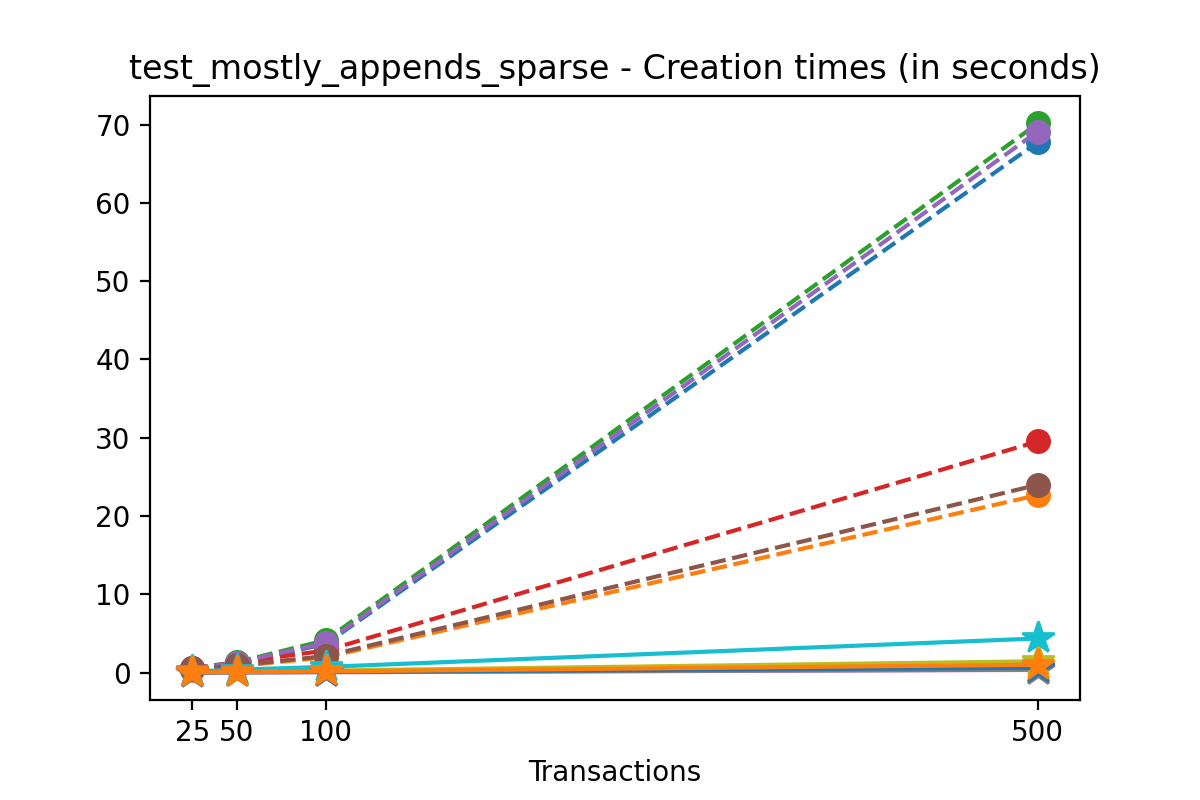
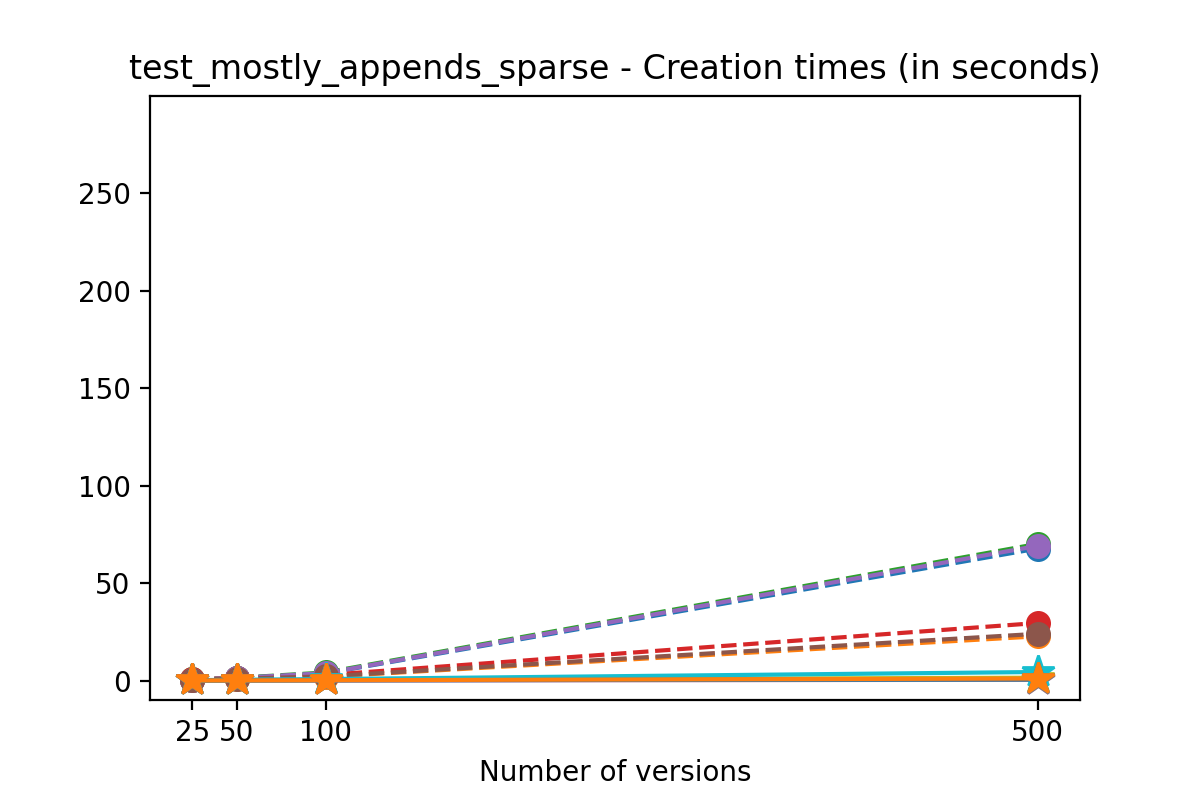
Changed scale in some of the figures to make them comparable. Small edits.

diff --git a/posts/2020/08/versioned-hdf5-performance.md b/posts/2020/08/versioned-hdf5-performance.md
@@ -65,7 +65,7 @@ If we look at the time spent creating the files for each example, comparing chun
 
 ![legend](/images/versioned-hdf5-performance/legend.png) 
 
-Now, we can look at the time required to stage a new version in the file, that is, to add a new transaction. The graphs below show, for each fixed number of transactions, the time required to add new versions as the file is created.
+Now, we can look at the time required to stage a new version in the file, that is, to add a new transaction. The graphs below show, for each fixed number of transactions, the time required to add new versions as the file is created. Note that the scales vary for each test.
 
 ![test1](/images/versioned-hdf5-performance/write_times_test1.png) | ![test2](/images/versioned-hdf5-performance/write_times_test2.png)
 :-------------------------:|:-------------------------:
@@ -73,13 +73,13 @@ Now, we can look at the time required to stage a new version in the file, that i
 
 It is clear that as the number of versions stored in the file increases, the times required to create versioned HDF5 files increases significantly when compared to regular HDF5 files. This is expected, since all the data about previous versions is stored in the same file when we keep track of the changes made to each file. In particular, in `test_mostly_appends_sparse`, where the size of the arrays stored in the file grow significantly with each new version, we can see a marked increase in the times required to stage new versions.
 
-Finally, we'll look at a two-dimensional dataset. In this case, we have chosen different chunk sizes to test, considering that larger chunk sizes increase file sizes considerably.
+Finally, we'll look at a two-dimensional dataset. In this case, we have chosen different chunk sizes to test, considering that larger chunk sizes increase file sizes considerably. 
 
 ![filesizes_test5](/images/versioned-hdf5-performance/filesizes_test5.png)
 
 ![creation_times](/images/versioned-hdf5-performance/create_test5.png)
 
-We can also look at the times required to create each new version and write it to file in the versioned and unversioned cases. This is shown in the image below.
+We can also look at the times required to create each new version and write it to file in the versioned and unversioned cases. This is shown in the image below (note the different axis scale from previous figures.)
 
 ![write_versions](/images/versioned-hdf5-performance/write_times_test5.png)
 
@@ -93,7 +93,7 @@ Plotting with respect to the number of versions, we get the following:
 
 ![](/images/versioned-hdf5-performance/seqread.png)
 
-As expected, read times increase for files with a larger number of versions, but the growth is close to linear in all cases except for `test_mostly_appends_dense`, where the large array sizes explain the larger read times.
+As expected, read times increase for files with a larger number of versions, but the growth is close to linear in all cases except for `test_mostly_appends_sparse`, where the large array sizes explain the larger read times.
 
 Next, we’ll compare the times necessary to read the latest version on each file. Because of how Versioned HDF5 is designed, this is the same as reading the last array stored in the HDF5 file. For each test, we made 20 different reads of the latest version in order to eliminate fluctuations generated by background processes or the OS (solid lines). We also compare these read times with the time required to read an unversioned file (which only stored the latest version - dashed black line).
 
